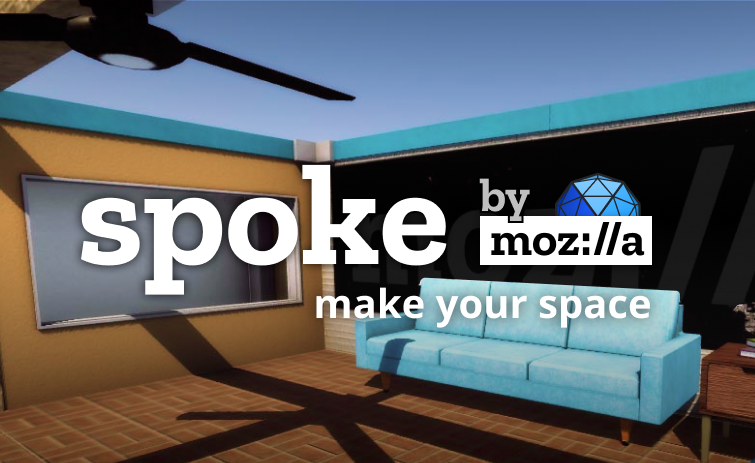
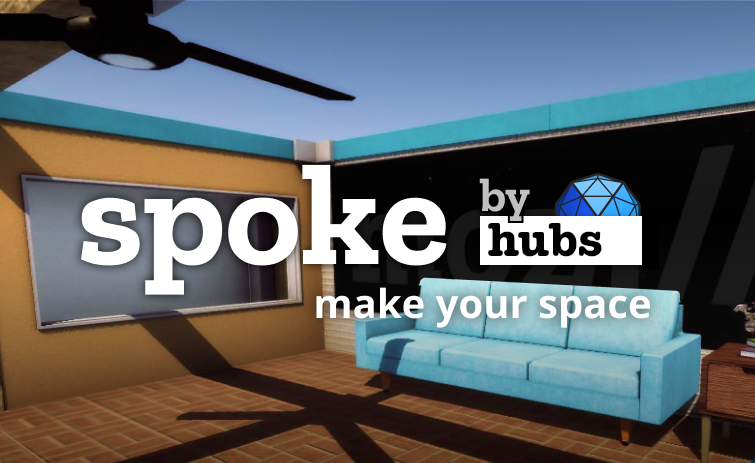
[Mozilla Branding Removal] removes all references to Mozilla as owner
removes Mozilla branding in spoke-preview.png
test.glb is just a cube with no visual branding
I don't think any of the devops files are actually used, but that's a different pull request. We might want to use a placeholder identifies instead of Hubs Foundation.
Content should now appear on the What's New page (for example, https://demo.hubsfoundation.org/whats-new) according to what PRs have been merged, rather that what's new on this server.
It appears index.html.eex is nowhere used.

Some identifiers containing "mozilla" could not be changed, as they cause the automated tests to fail.

Changed region(s): [[0.6397, 0.4536, 0.8834, 0.5745]]

diff --git a/README.md b/README.md
@@ -4,7 +4,6 @@
 
 The server-side code for chutvrc, forked from [Reticulum](https://github.com/mozilla/reticulum), a hybrid game networking and web API server, focused on Social Mixed Reality.
 
-
 ## chutvrc features
 
 Some notable features are,
@@ -36,9 +35,9 @@ It will be updated to migration information considering the current status of Mo
 
 ---
 
-Note: **Due to our small team size, we don't support setting up Reticulum locally due to restrictions on developer credentials. Although relatively difficult and new territory, you're welcome to set up this up yourself. In addition to running Reticulum locally, you'll need to also run [Hubs](https://github.com/mozilla/hubs) and [Dialog](https://github.com/mozilla/dialog) locally because the developer Dialog server is locked down and your local Reticulum will not connect properly)**
+Note: **Due to our small team size, we don't support setting up Reticulum locally due to restrictions on developer credentials. Although relatively difficult and new territory, you're welcome to set up this up yourself. In addition to running Reticulum locally, you'll need to also run [Hubs](https://github.com/Hubs-Foundation/hubs) and [Dialog](https://github.com/Hubs-Foundation/dialog) locally because the developer Dialog server is locked down and your local Reticulum will not connect properly)**
 
-Reference [this discussion thread](https://github.com/mozilla/hubs/discussions/3323) for more information.
+Reference [this discussion thread](https://github.com/Hubs-Foundation/hubs/discussions/3323) for more information.
 
 A hybrid game networking and web API server, focused on Social Mixed Reality.
 
@@ -77,6 +76,7 @@ https://docs.ansible.com/ansible/latest/installation_guide/intro_installation.ht
 ### 2. Enable git hooks
 
 Run
+
 ```shell
 . scripts/setup.sh
 ```
@@ -123,7 +123,7 @@ Example:
 Clone the Hubs repository and install the npm dependencies.
 
 ```bash
-git clone https://github.com/mozilla/hubs.git
+git clone https://github.com/Hubs-Foundation/hubs.git
 cd hubs
 npm ci
 ```
@@ -153,11 +153,15 @@ Navigate to that url in your browser to finish signing in.
 ### 6. Creating an Admin User
 
 After you've started Reticulum for the first time you'll likely want to create an admin user. Assuming you want to make the first account the admin, this can be done in the iex console:
-1) Open the iex console. From the reticulum folder run:
+
+1. Open the iex console. From the reticulum folder run:
+
 ```
 iex -S mix
 ```
-2) Then run the following code:
+
+2. Then run the following code:
+
 ```
 Ret.Account |> Ret.Repo.all() |> Enum.at(0) |> Ecto.Changeset.change(is_admin: true) |> Ret.Repo.update!()
 ```
@@ -167,11 +171,15 @@ Make sure to run the Maybe try iex -S mix where the reticulum mix.exs file is.
 ### 7. Enabling Room Features
 
 Rooms are created with restricted permissions by default, which means you can't spawn media objects. You can change this setting in the admin panel, or run the following code in the iex console:
-1) Open the iex console. From the reticulum folder run:
+
+1. Open the iex console. From the reticulum folder run:
+
 ```
 iex -S mix
 ```
-2) Then run the following code:
+
+2. Then run the following code:
+
 ```
 Ret.AppConfig.set_config_value("features|permissive_rooms", true)
 ```

diff --git a/CODE_OF_CONDUCT.md b/CODE_OF_CONDUCT.md
@@ -1,15 +1,9 @@
 # Community Participation Guidelines
 
-This repository is governed by Mozilla's code of conduct and etiquette guidelines. 
+This repository is governed by the Hubs Foundation's code of conduct and etiquette guidelines.
 For more details, please read the
-[Mozilla Community Participation Guidelines](https://www.mozilla.org/about/governance/policies/participation/). 
+[Hubs Community Participation Guidelines](https://github.com/Hubs-Foundation/hubs/blob/master/CODE_OF_CONDUCT.md).
 
 ## How to Report
-For more information on how to report violations of the Community Participation Guidelines, please read our '[How to Report](https://www.mozilla.org/about/governance/policies/participation/reporting/)' page.
+For more information on how to report violations of the Community Participation Guidelines, please read our '[How to Report](https://github.com/Hubs-Foundation/hubs/blob/master/CODE_OF_CONDUCT.md)' page.
 
-<!--
-## Project Specific Etiquette
-
-In some cases, there will be additional project etiquette i.e.: (https://bugzilla.mozilla.org/page.cgi?id=etiquette.html).
-Please update for your project.
--->

diff --git a/bin/README.md b/bin/README.md
@@ -1,5 +1,5 @@
 bin/
 ====
 These scripts allow you to run common commands inside the
-[Hubs Compose](https://github.com/mozilla/hubs-compose) Reticulum container
+[Hubs Compose](https://github.com/Hubs-Foundation/hubs-compose) Reticulum container
 from your own shell
